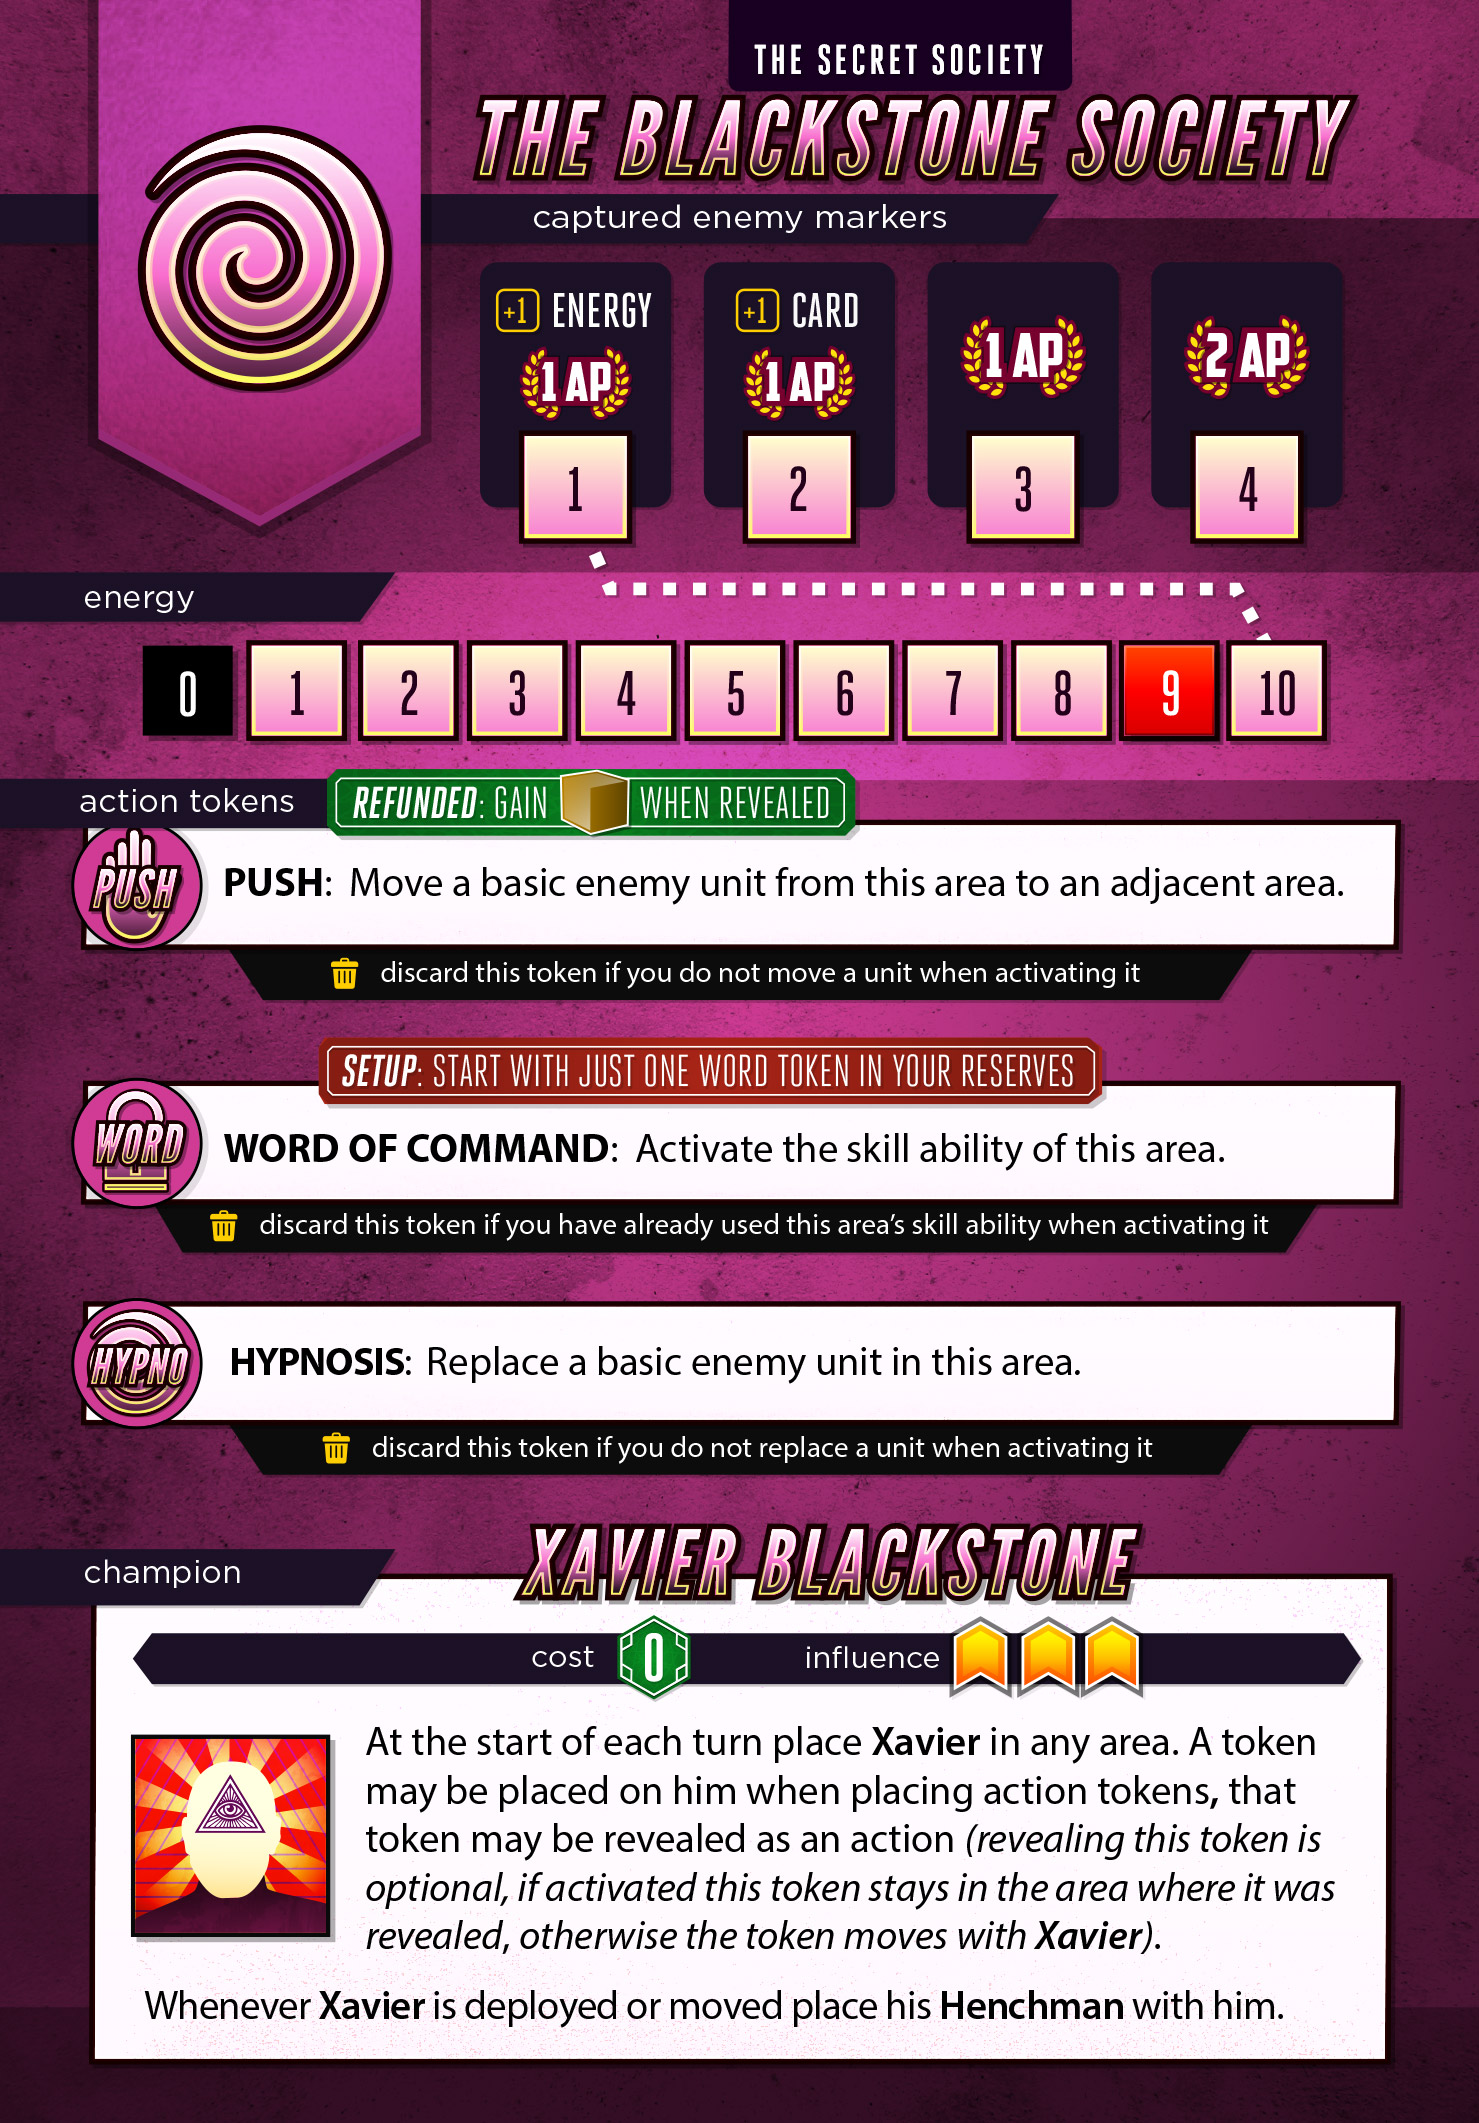
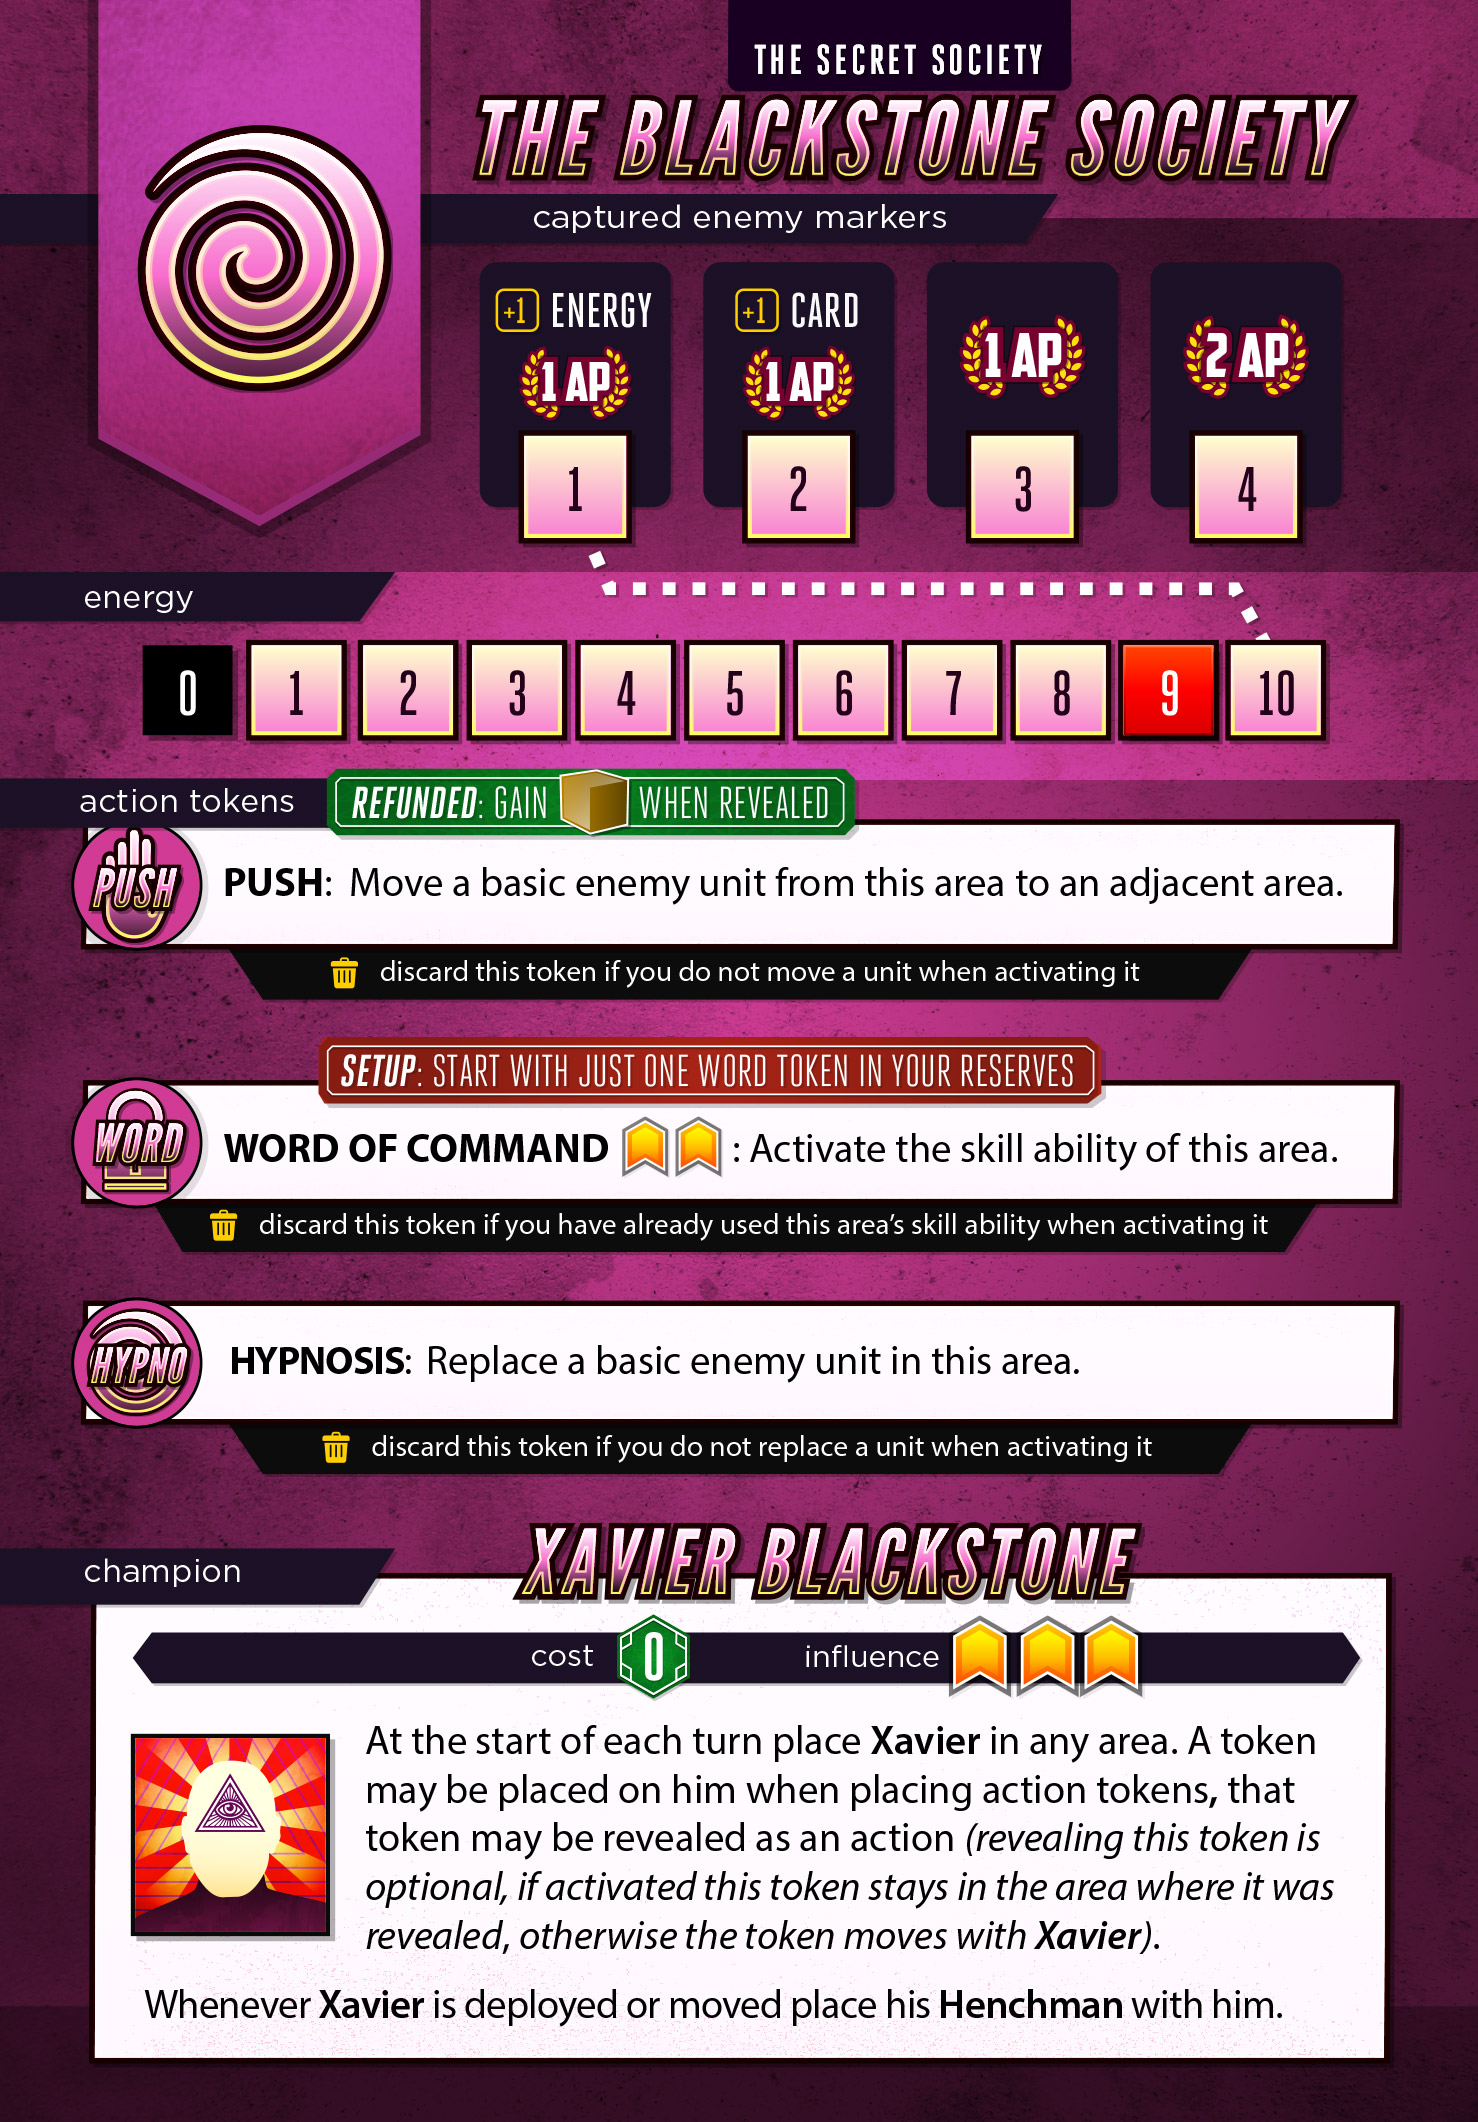
SOCIETY: word worth 2 influenbce

diff --git a/server/classes/factions/Society.js b/server/classes/factions/Society.js
@@ -53,7 +53,7 @@ class Society extends Faction {
         this.tokens['word-of-command'] = {
             count: 3,
             data: {
-                influence: 1,
+                influence: 2,
                 type: 'word-of-command',
                 cost: 0,
                 description: "Activate this area's skill ability (if you have not already activated it)",
